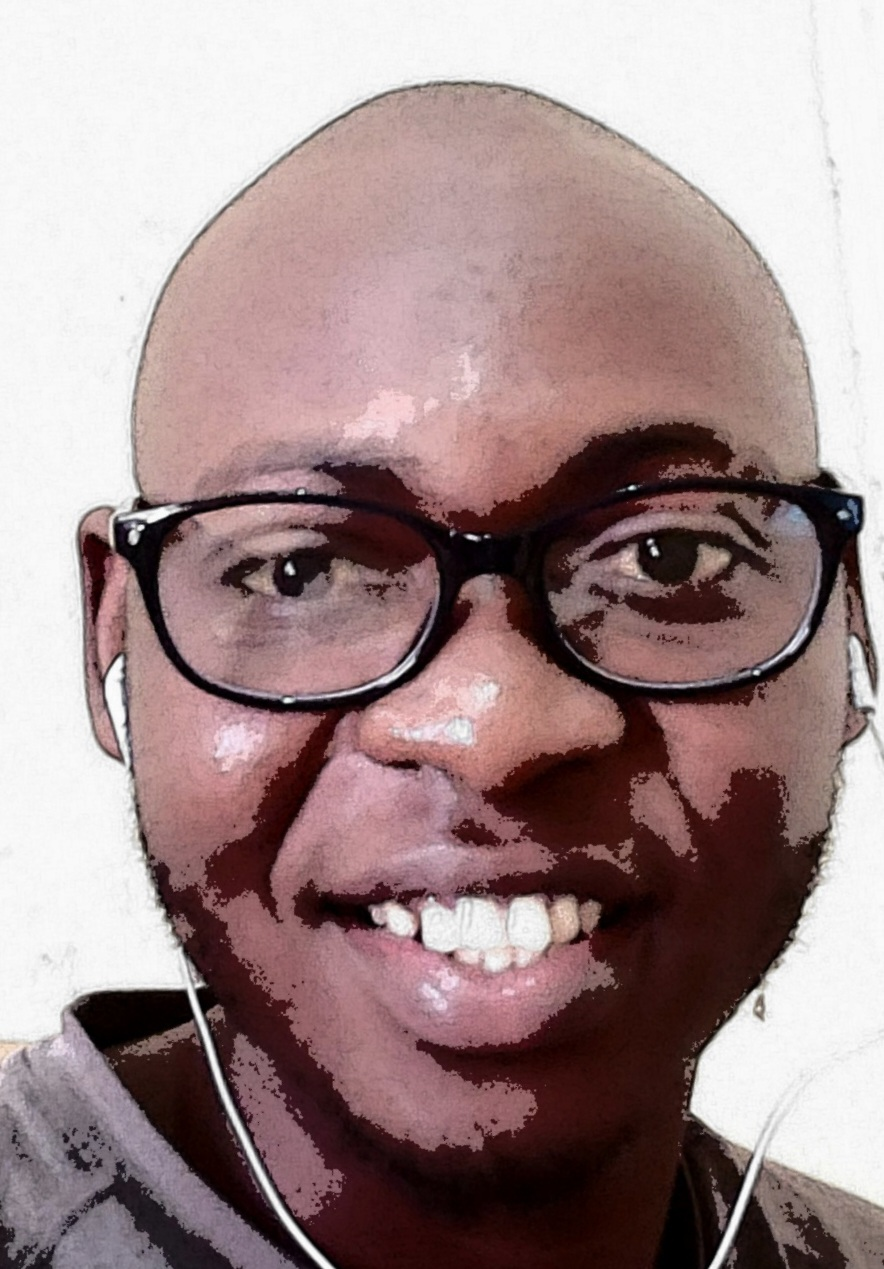
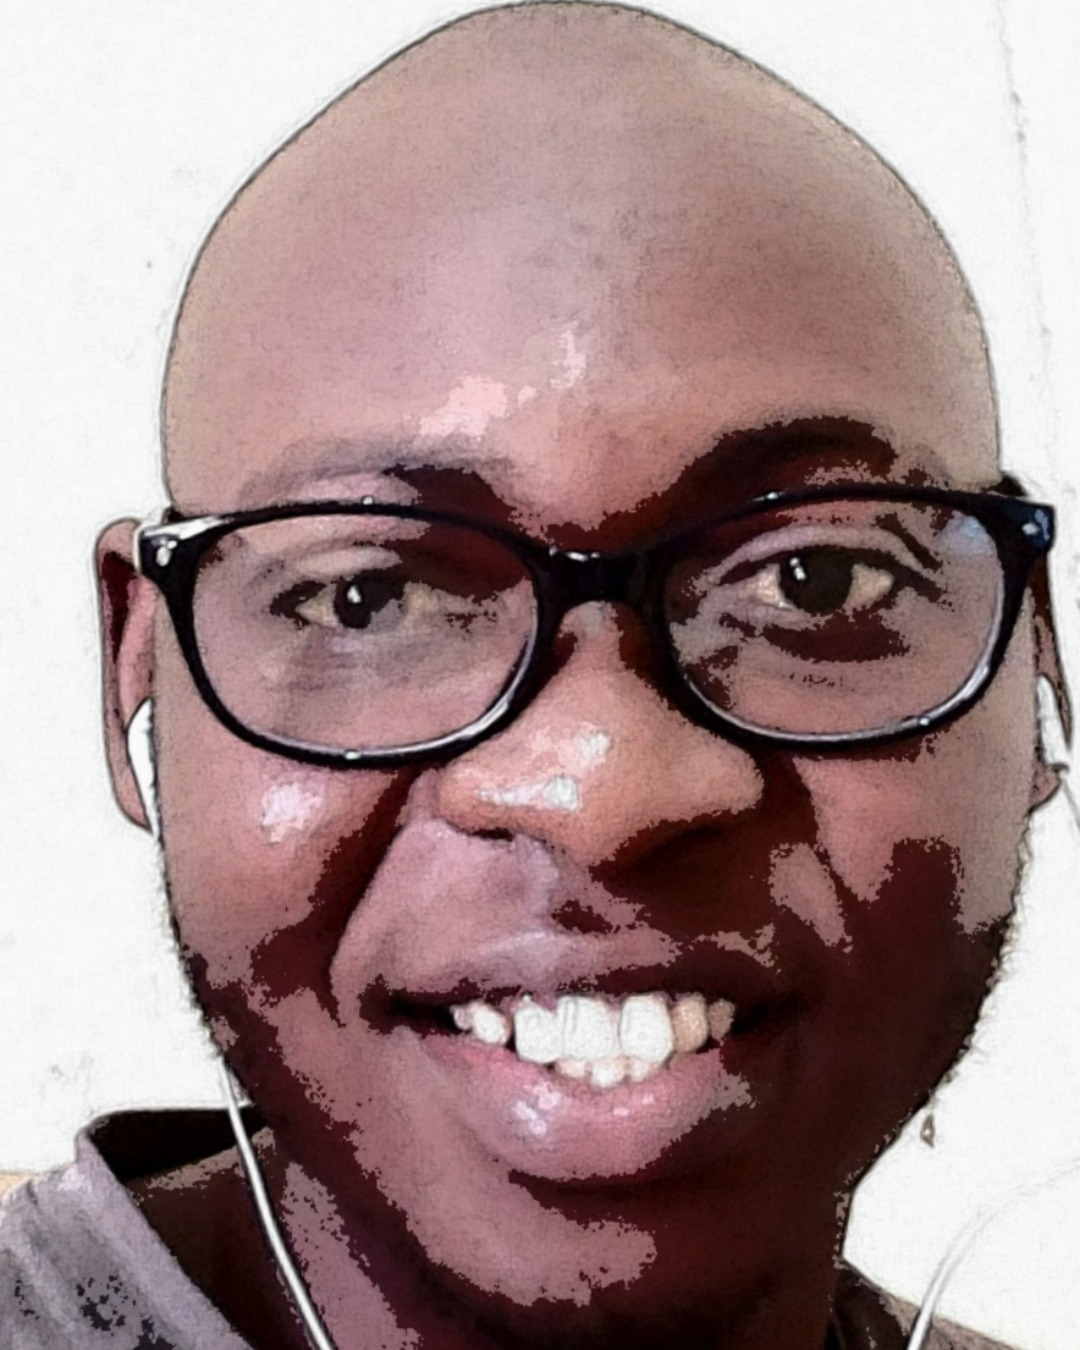
feat: added arrow and profile iage

diff --git a/src/components/Home.jsx b/src/components/Home.jsx
@@ -5,22 +5,38 @@ import { MdOutlineKeyboardArrowRight } from 'react-icons/md'
 const Home = () => {
   return (
     <>
-    <div>
-      <div>
+    <div name='home' className='h-screen w-full bg-gradient-to-b from-black to-gray-800'>
+
+      <div className='max-w-screen-lg mx-auto flex flex-col items-center justify-center h-full px-4 md:flex-row'>
+
         <div>
+
           <h2>
               Iam a FullStack Developer
           </h2>
+
           <p>
           I have 8 years of experience building and desgining software.
             Currently, I love to work on web application using technologies like
-            React, Tailwind, Next JS and GraphQL.
+            React, Tailwind, Django, PostgresQl and Git.
           </p>
+
+          <div>
+            Portfolio
+            <span>
+              <MdOutlineKeyboardArrowRight />
+            </span>
+            
+          </div>
+
         </div>
+
+          <img className='h-[350px] rounded-2xl mx-auto w-2/3 md:w-full' src={HeroImage} alt='profile'/>
+
       </div>
     </div>
       
-      {/* <img src={HeroImage} /> */}
+      
     </>
   )
 }

diff --git a/src/App.js b/src/App.js
@@ -1,4 +1,3 @@
-import logo from './logo.svg';
 import './App.css';
 import NavBar from './components/NavBar';
 import Home from './components/Home';
